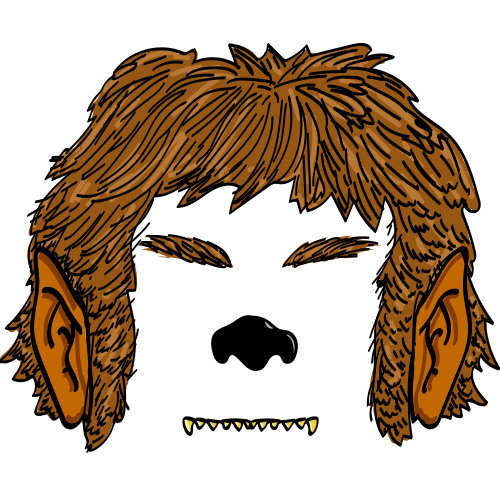
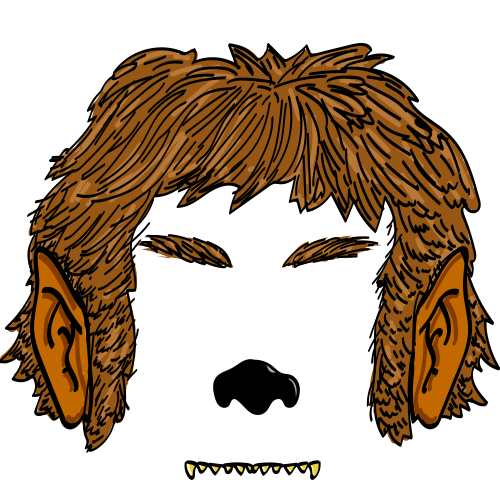
updating mask positions

Changed region(s): [[0.36, 0.63, 0.66, 0.87], [0.36, 0.9, 0.66, 0.96]]

diff --git a/js/tracker.js b/js/tracker.js
@@ -34,7 +34,7 @@
 				"xpos":".19","ypos":".25","imgwidth":"1.45","imgheight":"1.5"
 		}],
 		"ruff":[{
-				"xpos":".19","ypos":".25","imgwidth":"1.45","imgheight":"1.5"
+				"xpos":".45","ypos":".24","imgwidth":"1.85","imgheight":"1.85"
 		}],
 		"arthur":[{
 				"xpos":"-.05","ypos":".3","imgwidth":"1","imgheight":"1"
@@ -46,16 +46,16 @@
 				"xpos":".19","ypos":".25","imgwidth":"1.45","imgheight":"1.5"
 		}],
 		"MIYH":[{
-			"xpos":".1","ypos":"1","imgwidth":"1.5","imgheight":"1.3"
+			"xpos":".3","ypos":"1.25","imgwidth":"1.64","imgheight":"1.64"
 		}],
 		"dracula":[{
-				"xpos":".19","ypos":".25","imgwidth":"1.45","imgheight":"1.5"
+				"xpos":".05","ypos":".33","imgwidth":"1.15","imgheight":"1.15"
 		}],
 		"wolfman":[{
-				"xpos":".19","ypos":".25","imgwidth":"1.45","imgheight":"1.5"
+				"xpos":".07","ypos":".3","imgwidth":"1.175","imgheight":"1.175"
 		}],
 		"mans_hat":[{
-				"xpos":".19","ypos":".25","imgwidth":"1.45","imgheight":"1.5"
+				"xpos":".15","ypos":".45","imgwidth":"1.32","imgheight":"1.32"
 		}],
 		"womans_hat":[{
 				"xpos":".19","ypos":".25","imgwidth":"1.45","imgheight":"1.5"

diff --git a/index.php b/index.php
@@ -273,7 +273,7 @@ onclick="this.href = $('#img-out img').attr('src');" download="halloween">downlo
     <div class="item"><img class="change" src="hats/creature2.png" data-name="creature"></div>
     <div class="item"><img class="change" src="hats/dracula.png" data-name="dracula"></div>
     <div class="item"><img class="change" src="hats/wolfman.png" data-name="wolfman"></div>
-    <div class="item"><img class="change" src="hats/mans_hat.png" data-name="mans_hat"></div>
+    <div class="dark item"><img class="change selected" src="hats/mans_hat.png" data-name="mans_hat"></div>
     <div class="item"><img class="change" src="hats/womans_hat.png" data-name="womans_hat"></div>
     <div class="item"><img class="change" src="hats/mummy.png" data-name="mummy"></div>
     <div class="item"><img class="change" src="hats/witch.png" data-name="witch"></div>

diff --git a/README.md b/README.md
@@ -2,4 +2,4 @@
 
 Files for WGBH Halloween 2017 photo booth.
 
-https://idiophonebox.com/halloween/index_upload.php
+https://idiophonebox.com/halloween/index.php
